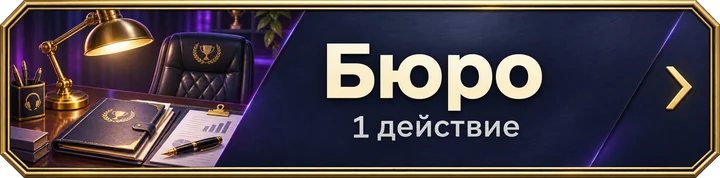
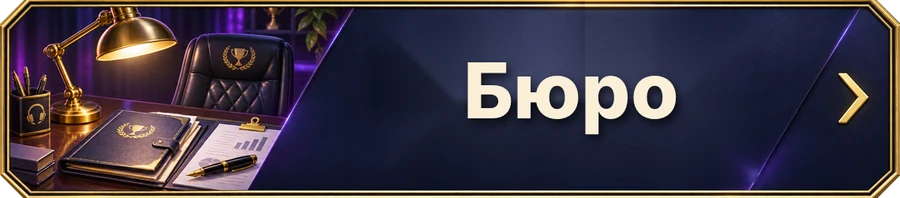
Бюро без «1 действие» в размер остальных плашек; подпись «Тратит 1 действие»; местонахождение слева без логотипа
Claude-Session: https://claude.ai/code/session_01BdoBrB8cx4HivwSUnJtpct

diff --git a/index.html b/index.html
@@ -99,7 +99,7 @@ input,select{width:100%;padding:11px;border-radius:10px;border:1px solid var(--l
 .week .nextwk{flex:0 0 100%;margin-top:0}
 .week .inds{margin-top:8px}
 .nextm{text-align:right;font-size:14px}
-.loc{display:flex;align-items:center;justify-content:flex-end;gap:8px;margin-top:8px;font-size:14px;text-align:right}
+.loc{display:flex;align-items:center;justify-content:flex-start;gap:8px;margin-top:8px;font-size:14px;text-align:left}
 .mapsw{display:flex;align-items:center;justify-content:center;gap:8px;margin-top:10px}
 .mapsw .nvb{all:unset;cursor:pointer;display:block;line-height:0;width:calc(50% - 9px);transition:transform .12s,filter .15s;filter:brightness(.8) saturate(.9)}
 .mapsw .nvb img{width:100%;height:auto;display:block;aspect-ratio:720/162;object-fit:fill}   /* обе плашки одной высоты: «Карта» чуть сплюснута до высоты «Комнаты» */.mapsw .nvb.on{filter:drop-shadow(0 0 6px rgba(255,200,90,.65)) brightness(1.08)}.mapsw .nvb:active{transform:scale(.97)}
@@ -2950,10 +2950,10 @@ function viewMain() {
       <h2>${S.inRoom ? 'Моя комната' : 'Карта мира'}</h2>
       ${S.inRoom ? roomHtml() : mapHtml()}
       <div class="mapsw"><button class="nvb nv-room ${S.inRoom ? 'on' : ''}" data-a="nav" data-v="room" aria-label="Комната"><img src="img/nav/room.webp" alt=""></button><i class="nvsep"></i><button class="nvb nv-map ${S.inRoom ? '' : 'on'}" data-a="nav" data-v="map" aria-label="Карта"><img src="img/nav/map.webp" alt=""></button></div>
-      <div class="loc"><span>Местонахождение: <b>${REGIONS[S.region].city}</b></span><img src="img/logo_${S.region}.webp" alt=""></div>
+      <div class="loc"><span>Местонахождение: <b>${REGIONS[S.region].city}</b></span></div>
     </div>`;
   const events = `<div class="card"><h2>События недели</h2>${rows}</div>`;
-  const daily = `<div class="card"><h2>Повседневные действия</h2>
+  const daily = `<div class="card"><h2>Повседневные действия <span class="dim" style="font-size:.6em;font-weight:500;white-space:nowrap">(Тратит 1 действие)</span></h2>
       <button class="imgbtn" data-a="bureau" ${done && !freeBureau(S) ? 'disabled' : ''} aria-label="Бюро">${freeBureau(S) ? '<small class="ibfree">бесплатно</small>' : ''}<img src="img/nav/bureau.webp" alt=""></button>
       <button class="imgbtn" data-a="lib" ${done ? 'disabled' : ''} aria-label="Библиотека · 1 действие"><img src="img/nav/lib.webp" alt=""></button>
       <button class="imgbtn" data-a="rest" ${done ? 'disabled' : ''} aria-label="Отдых · 1 действие" title="Снимает все бонусы и штрафы"><img src="img/nav/rest.webp" alt=""></button>

diff --git a/sw.js b/sw.js
@@ -1,5 +1,5 @@
 // Установка как приложения и офлайн: сначала сеть (чтобы приходили обновления), без сети — сохранённая копия.
-const CACHE = 'spektr-v25';
+const CACHE = 'spektr-v26';
 const FILES = ['./', './index.html', './manifest.webmanifest', './icon-192.png', './icon-512.png', './icon-mask.png', './icon-180.png'];
 self.addEventListener('install', e => { e.waitUntil(caches.open(CACHE).then(c => c.addAll(FILES))); self.skipWaiting(); });
 self.addEventListener('activate', e => { e.waitUntil(caches.keys().then(ks => Promise.all(ks.filter(k => k !== CACHE).map(k => caches.delete(k))))); self.clients.claim(); });
